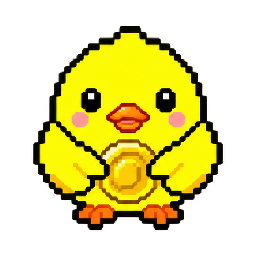
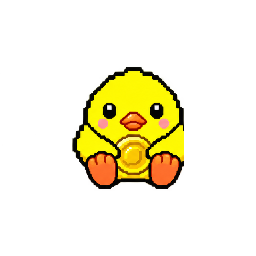
Refine desktop pet art, sizes and interaction handoff

diff --git a/docs/publications-20261008.md b/docs/publications-20261008.md
@@ -26,3 +26,5 @@ Keep this tag immutable. If a defect is found, fix it in a new commit and publis
 GitHub Release creation and live hosting verification are tracked separately. Planned external integrations are listed in the README and shown in the browser interface.
 
 2026-10-11: Desktop artwork/size update prepared for publication; see ../desktop-pet-20261011.json. No new app integrations claimed.
+
+Desktop art follow-up (2026-10-11): Yellow wings, balanced orange beak in all poses, forward-facing orange soles. Source frames and runtime handoff are recorded in desktop-pet-20261011.json. Prepared by OpenAI Codex (GPT-6), 2026-10-11.
